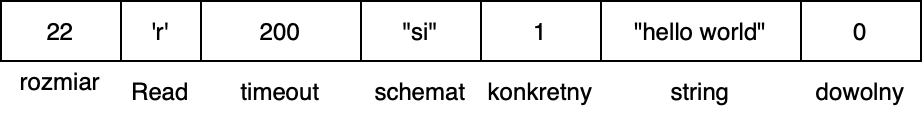
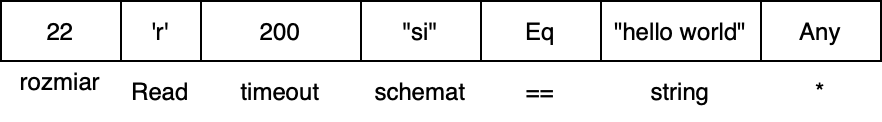
Minor tweaks + RequirementTypes

diff --git a/reports/PreliminaryDocumentation.md b/reports/PreliminaryDocumentation.md
@@ -64,7 +64,7 @@ Użytkownikowi biblioteki udostępnione są poniższe funkcjonalności:
 ### linda::Server
 <p align="justify">
 Biblioteka udostępnia programiście klasę <b><i>linda::Server</i></b>, która to realizuje wieloprocesową komunikację. Posiada wewnętrznie instancję przestrzeni krotek i podczas konstrukcji przyjmuje wskazania na funkcje, które zostaną uruchomione jako osobne procesy.
-W momencie uruchomienia komunikacji, nastąpi utworzenie procesów potomnych, a proces wywołujący przejdzie w tryb pracy serwera. Korzystając z funkcji <a href="https://man7.org/linux/man-pages/man2/poll.2.html">poll(2)</a>, serwer oczekuje na komunikaty od procesów potomnych i realizuje ich żądania w przestrzeni krotek. 
+W momencie uruchomienia komunikacji, nastąpi utworzenie procesów potomnych, a następnie proces wywołujący przejdzie w tryb pracy serwera. Korzystając z funkcji <a href="https://man7.org/linux/man-pages/man2/poll.2.html">poll(2)</a>, serwer oczekuje na komunikaty od procesów potomnych i realizuje ich żądania w przestrzeni krotek. 
 Klasa udostępnia tylko jedną publiczną metodę:
 </p> 
 
@@ -94,10 +94,10 @@ void function(linda::Handle handle) {
 
 ### Struktury
 
-#### Rządanie
+#### Żądanie
 ![request](/reports/figures/request.png)
 - rozmiar reszty wiadomości: `int`
-- rodzaj rządania: `enum RequestType: char { Read, In, Out }`
+- rodzaj żądania: `enum RequestType: char { Read, In, Out }`
 - wartość timeoutu: `int` (dla `Out` ignorowane ponieważ nie czeka na odpowiedź)
 - dla `In` oraz `Read` wzorzec krotki: `TuplePattern`, dla `Out` krotka: `Tuple`
 
@@ -118,24 +118,24 @@ void function(linda::Handle handle) {
 - wzorce wartości w tej samej kolejności co w schemacie
 
 Wzorce wartości posiadają dwie postacie:
-- zerowy bajt - oznacza wymaganie dowolnej wartości
-- niezerowy bajt + wartość - oznacza wymaganie konkretnej wartości
+- `Any`
+- `{ Eq, Less, LessEq, More, MoreEq }` + wartość
 
-#### Przykład rządania Out
+#### Przykład żądania Out
 ![tuple-pattern](/reports/figures/request-out-example.png)
 - rozmiar reszty wiadomości = `1 + 4 + 5 + (4 + 4 + 12 + 4)` = `34`
-- rodzaj rządania = `Out` = `'o'`
+- rodzaj żądania = `Out` = `'o'`
 - timeout = `200ms`
 - schemat krotki = `(int, float, string, int)`
 - wartości krotki = `(15, 7.0, "hello world", 115)`
 
-#### Przykład rządania Read
+#### Przykład żądania Read
 ![tuple-pattern](/reports/figures/request-read-example.png)
 - rozmiar reszty wiadomości = `1 + 4 + 3 + 1 + 12 + 1` = `22`
-- rodzaj rządania = `Read` = `'r'`
+- rodzaj żądania = `Read` = `'r'`
 - timeout = `200`
 - schemat krotki = `(string, int)`
-- wzorce krotki = `("hello world", *)`
+- wzorce krotki = `(== "hello world", *)`
 
 #### Przykład odpowiedz Result
 ![tuple-pattern](/reports/figures/response-result-example.png)
@@ -189,24 +189,18 @@ Dodatkowo eliminujemy aktywne oczekiwanie i optymalizujemy działanie timeout'ó
 
 ### Obsługa timeout'ów
 <p align="justify">
-Timeout podawany jest w milisekundach i jest on sunchronizowany do serwera - tzn. timeout liczony jest od czasu zarejestrowania przez serwer żądania 
-klienta. Oznacza to, że z punktu widzenia użytkownika nie ma gwarancji, że proces odblokuje się po upływie zadeklarowanego czasu, ale gwarantuje 
-poprawną synchronizację żądań.
+Timeout realizowany jest przez serwer, przez wysłanie do klienta odpowiedzi, że nie zdążył on na czas zrealizować przerwania i żądanie się przedawniło. Timeout podawany jest w milisekundach i jest on synchronizowany do serwera - tzn. timeout liczony jest od czasu zarejestrowania przez serwer żądania klienta. Oznacza to, że z punktu widzenia użytkownika próba wykonania operacji może zablokować proces na dłużej niż podana wartość, ale gwarantuje poprawną synchronizację żądań.
 
-W celu zapewnienia możliwie małej niedokładności, przed wykonaniem dowolnego żądania serwer zweryfikuje, które żądania się przedawiniły i dla nich priorytetowo wyśle komunikat o przedawnieniu żądania. 
+W celu zapewnienia możliwie małej niedokładności, przed każdą próbą wykonania kolejnego żądania sprawdzi które żądania się przedawiniły i do nich priorytetowo wyśle komunikat o przedawnieniu żądania.
 
-Uważamy, że takie podjście jest odpowiednie, gdyż gwarantujemy poprawność synchronizacji i tym samym nie dojdzie do sytuacji w której klient  
-odblokował się po timeout'cie, a serwer wykonał operację input - efektywnie błędnie usuwająć krotkę. Biorąc pod uwagę, że systomowe funkcje takie jak 
-<a href="https://man7.org/linux/man-pages/man2/nanosleep.2.html">nanosleep(2)</a> nie gwarantują pełnej dokładności czasowej uważamy brak takiej
-gwarancji w naszej bibliotece za dopuszczalny.
+Uważamy, że takie podjście jest odpowiednie, gdyż gwarantujemy poprawność synchronizacji i tym samym nie dojdzie do sytuacji w której klient odblokował się po timeout'cie, ale serwer zaczął już wykonywać operację input - efektywnie błędnie usuwająć krotkę z przestrzeni. Jedynym sposobem na zapewnienie poprawnego działania systemu jest poprawna synchronizacja klienta z serwerem, która w tej sytuacji wymusza, żeby to serwer informował klienta o tym, że żądanie się przedawniło i żądana operacja nie zostanie wykonana. Biorąc pod uwagę, że systomowe funkcje takie jak n.p. <a href="https://man7.org/linux/man-pages/man2/nanosleep.2.html">nanosleep(2)</a> również nie gwarantują pełnej dokładności czasowej uważamy brak takiej gwarancji w naszej bibliotece za dopuszczalny. 
 </p>
 
 ## Podział na moduły
-* LindaServer - realizuje koordynatora przestrzeni krotek. Tworzy przestrzeń i uruchamia procesy, które chcą z niej korzystać. 
-Implementuje serwer obsługujący żądania utworzony procesów.
-* LindaHandle - realizuje obiekt dostępowy do przestrzeni krotek. Obiekt ten posiada interfejs języka Linda (ale go nie implementuje) i jest wykorzystywany przez procesy komunikujące się poprzez przestrzeń krotek.
-* LindaTuple - zawiera struktury krotek i operacje jakie można na nich przeprowadzić.
-* LindaTupleSpace - realizuje kontener na krotki, posiada metody modyfikujące przestrzeń krotek odpowiadające operacjom języka Linda
+* LindaServer - realizuje koordynatora przestrzeni krotek. Tworzy przestrzeń krotek i uruchamia procesy, które chcą z niej korzystać. Implementuje serwer obsługujący żądania wykonywania operacji języka Linda wysyłane przez utworzone procesy.
+* LindaHandle - realizuje obiekt dostępowy do przestrzeni krotek. Obiekt ten posiada interfejs języka Linda i jest wykorzystywany przez procesy korzystające z przestrzeni krotek. Implementuje operacje języka Linda przez wysyłanie żądań do koordynatora przestrzeni krotek.
+* LindaTuple - zawiera implementacje struktur reprezentujących krotki i wzorce krotek, oraz operacje pozwalające na serializację i deserializację ich.
+* LindaTupleSpace - realizuje przestrzeń krotek. Posiada metody modyfikujące przestrzeń odpowiadające operacjom języka Linda.
 * Moduł testowy - zawiera testy jednostkowe i przykładowe programy korzystające z biblioteki.
 
 ## Struktura komunikacji między modułami
